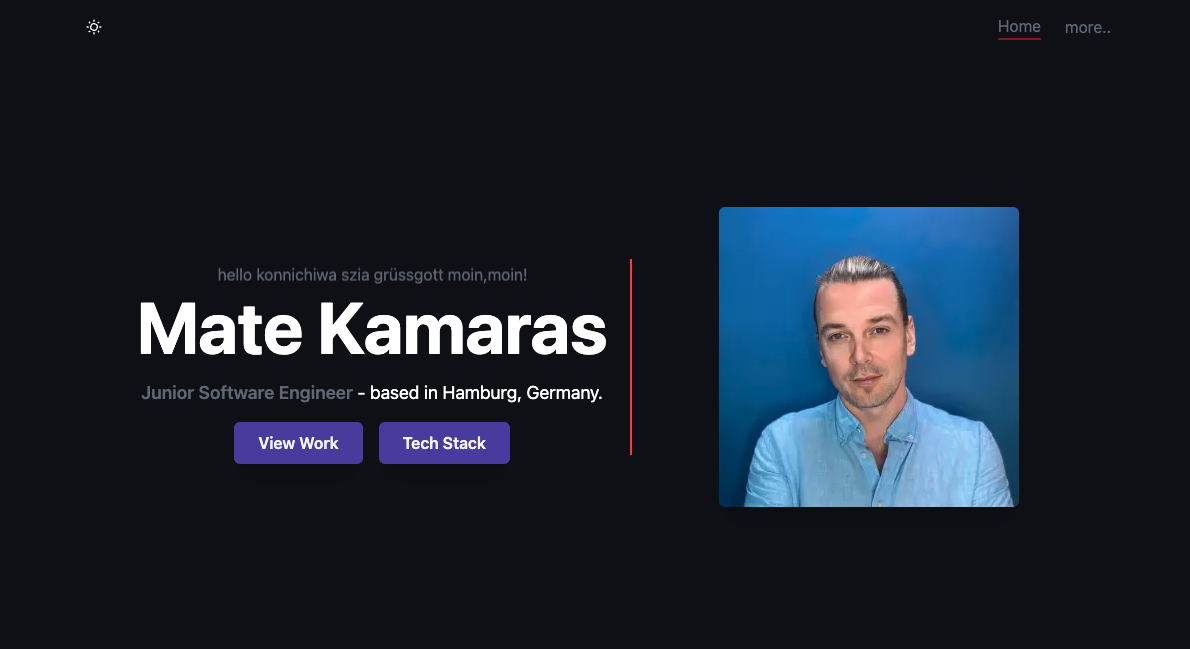
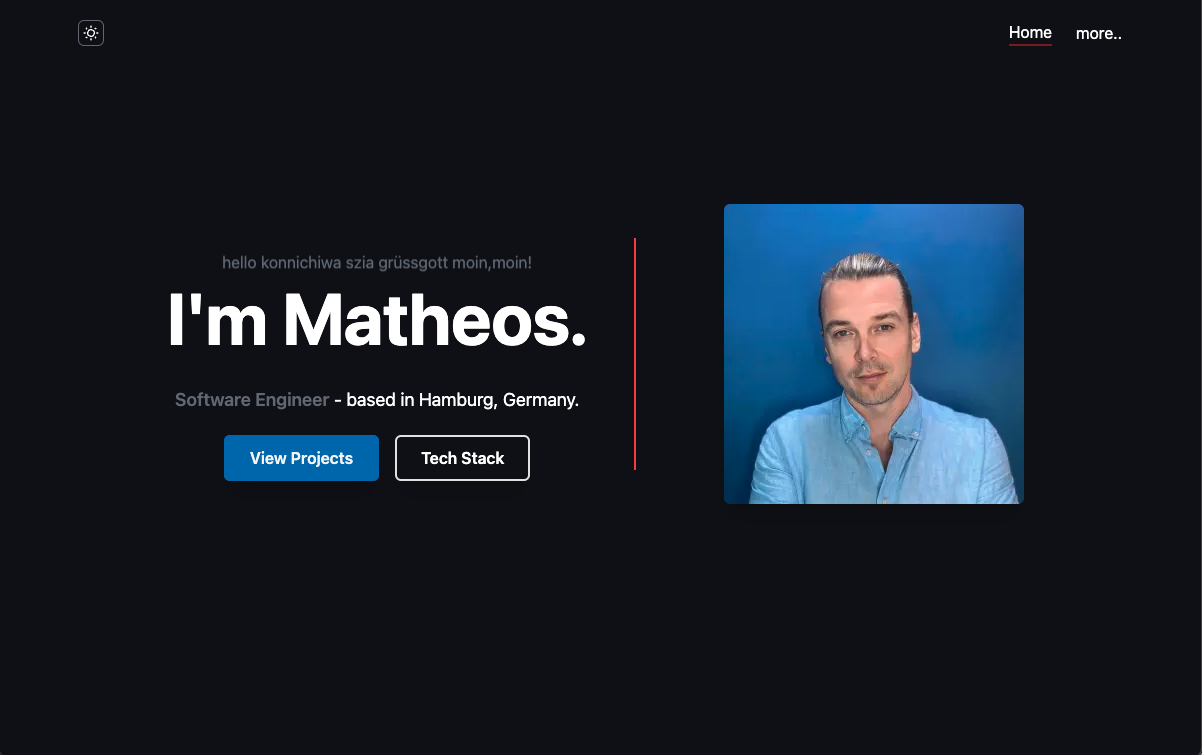
corrections

diff --git a/components/Footer.tsx b/components/Footer.tsx
@@ -14,7 +14,7 @@ const Footer = () => {
       />
       <div className='mx-auto p-4 flex flex-col text-center text-neutral-900 md:flex-row md:justify-between'>
         <div className=' flex flex-row items-center justify-center space-x-1 text-black dark:text-neutral-100'>
-          <a>@ 2023 Maté Kamaras</a>
+          <a>@Murci2023</a>
         </div>
         <div className='flex flex-row items-center justify-center space-x-2 mb-1 dark:text-white'>
           <a
@@ -28,7 +28,7 @@ const Footer = () => {
             />
           </a>
           <a
-            href='https://www.linkedin.com/in/mate-k-22b9621ab/'
+            href='https://www.linkedin.com/in/matheos-k-0461b0243/'
             rel='noreferrer'
             target='_blank'
           >
@@ -39,7 +39,7 @@ const Footer = () => {
           </a>
 
           <a
-            href='https://www.youtube.com/watch?v=Q-3-A0y0Qqc'
+            href='#'
             rel='noreferrer'
             target='_blank'
           >

diff --git a/components/ProjectSection.tsx b/components/ProjectSection.tsx
@@ -39,7 +39,7 @@ const projects = [
     name: 'My Portfolio Website',
     description:
       'This project showcases skills, projects, and provides insights into my journey as a web developer',
-    image: '/my-portfolio-website1.png',
+    image: '/Portfolio-website.png',
     github: 'https://github.com/Murci2022/PORTFOLIO_MATE',
     link: 'https://portfolio-mate.vercel.app/',
     techstack: 'Next.js, Typescript',

diff --git a/app/head.tsx b/app/head.tsx
@@ -1,7 +1,7 @@
 export default function Head() {
   return (
     <>
-      <title>Mate Kamaras</title>
+      <title>Murci2022</title>
       <meta
         content='width=device-width, initial-scale=1'
         name='viewport'
